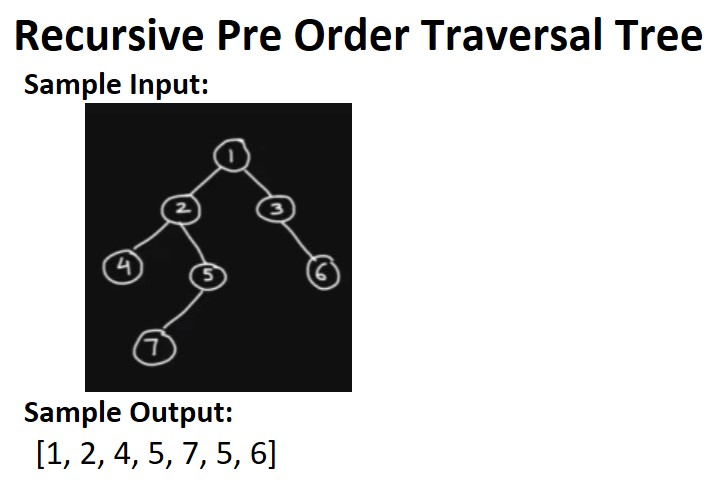
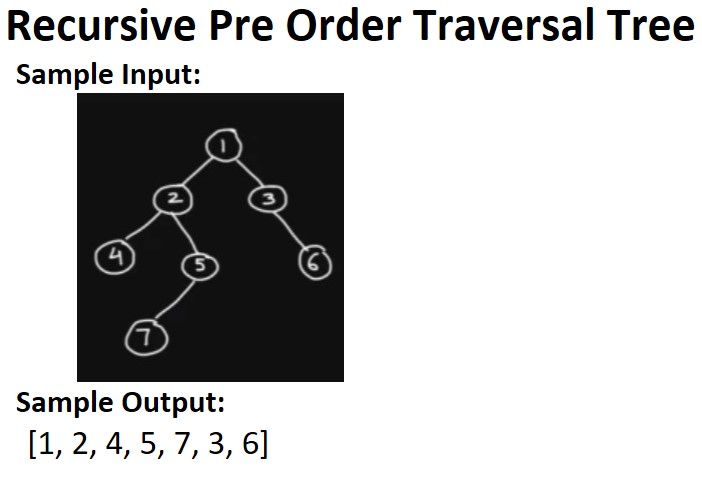
Added 4th Question and Solution for Binary Tree: Iterative Pre Order Traversal Tree Problem.

Changed region(s): [[0.0, 0.0, 0.9872, 0.9432], [0.4188, 0.4868, 0.4786, 0.6085]]

diff --git a/8. Binary Tree/4.question4-solution.cpp b/8. Binary Tree/4.question4-solution.cpp
@@ -1,0 +1,100 @@
+#include <iostream>
+#include <stack>
+#include<queue>
+
+using namespace std;
+
+class Node {
+public:
+    int data;
+    Node* left;
+    Node* right;
+    Node(int item)
+    {
+        data = item;
+        left = NULL;
+        right = NULL;
+    }
+};
+
+Node* buildTree()
+{
+    int item;
+    cin >> item;
+
+    if (item == -1) {
+        return NULL;
+    }
+
+    Node* node = new Node(item);
+    node->left = buildTree();
+    node->right = buildTree();
+
+    return node;
+}
+
+void levelOrderTraversal(Node* root)
+{
+    queue<Node*> que;
+    que.push(root);
+    que.push(NULL);
+
+    while (!que.empty()) {
+        Node* n = que.front();
+
+        if (n == NULL) {
+            que.pop();
+            cout << endl;
+            if (!que.empty())
+                que.push(NULL);
+        } else {
+            cout << n->data << " ";
+            que.pop();
+            if (n->left) {
+                que.push(n->left);
+            }
+            if (n->right) {
+                que.push(n->right);
+            }
+        }
+    }
+
+    cout << endl;
+}
+
+void printPreOrder(Node* root)
+{
+    if (root == NULL) {
+        return;
+    }
+
+   stack<Node*> st;
+   st.push(root);
+
+   while(!st.empty()) {
+        Node* n = st.top();
+        cout<<n->data<<" ";
+        st.pop();
+
+        if(n->right)
+            st.push(n->right);
+
+        if(n->left)
+            st.push(n->left);
+
+   }
+}
+
+int main()
+{
+    Node* root = buildTree();
+    cout << "Tree:- " << endl;
+    levelOrderTraversal(root);
+    cout << endl;
+
+    cout << "Pre Order Traversal Tree:- " << endl;
+    printPreOrder(root);
+    cout << endl;
+
+    return 0;
+}

diff --git a/8. Binary Tree/README.md b/8. Binary Tree/README.md
@@ -22,7 +22,7 @@
    ```
 
    | Method | TimeComplexity | SpaceComplexity | Source |
-      |---|---|---|---|
+   |---|---|---|---|
    | Using Queue | O(N) | O(N) | [Link](/8.%20Binary%20Tree/1.question1-solution.cpp) |
 
 3. Recursive Pre Order Traversal Problem.
@@ -35,5 +35,18 @@
    ```
 
    | Method | TimeComplexity | SpaceComplexity | Source |
-      |---|---|---|---|
+   |---|---|---|---|
    | Recursive | O(N) | O(N) | [Link](/8.%20Binary%20Tree/3.question3-solution.cpp) |
+
+3. Iterative Pre Order Traversal Problem.
+   <br /> [Question](/8.%20Binary%20Tree/docs/3.BinaryTree-Question3.jpg)
+   <br /> [Solution](/8.%20Binary%20Tree/4.question4-solution.cpp)
+   <br /> Command:-
+   ```shell
+   $ g++ -std=c++14 4.question4-solution.cpp -o test
+   $ ./test < 0.input-file.txt
+   ```
+
+   | Method | TimeComplexity | SpaceComplexity | Source |
+   |---|---|---|---|
+   | Iterative using stack | O(N) | O(N) | [Link](/8.%20Binary%20Tree/4.question4-solution.cpp) |
